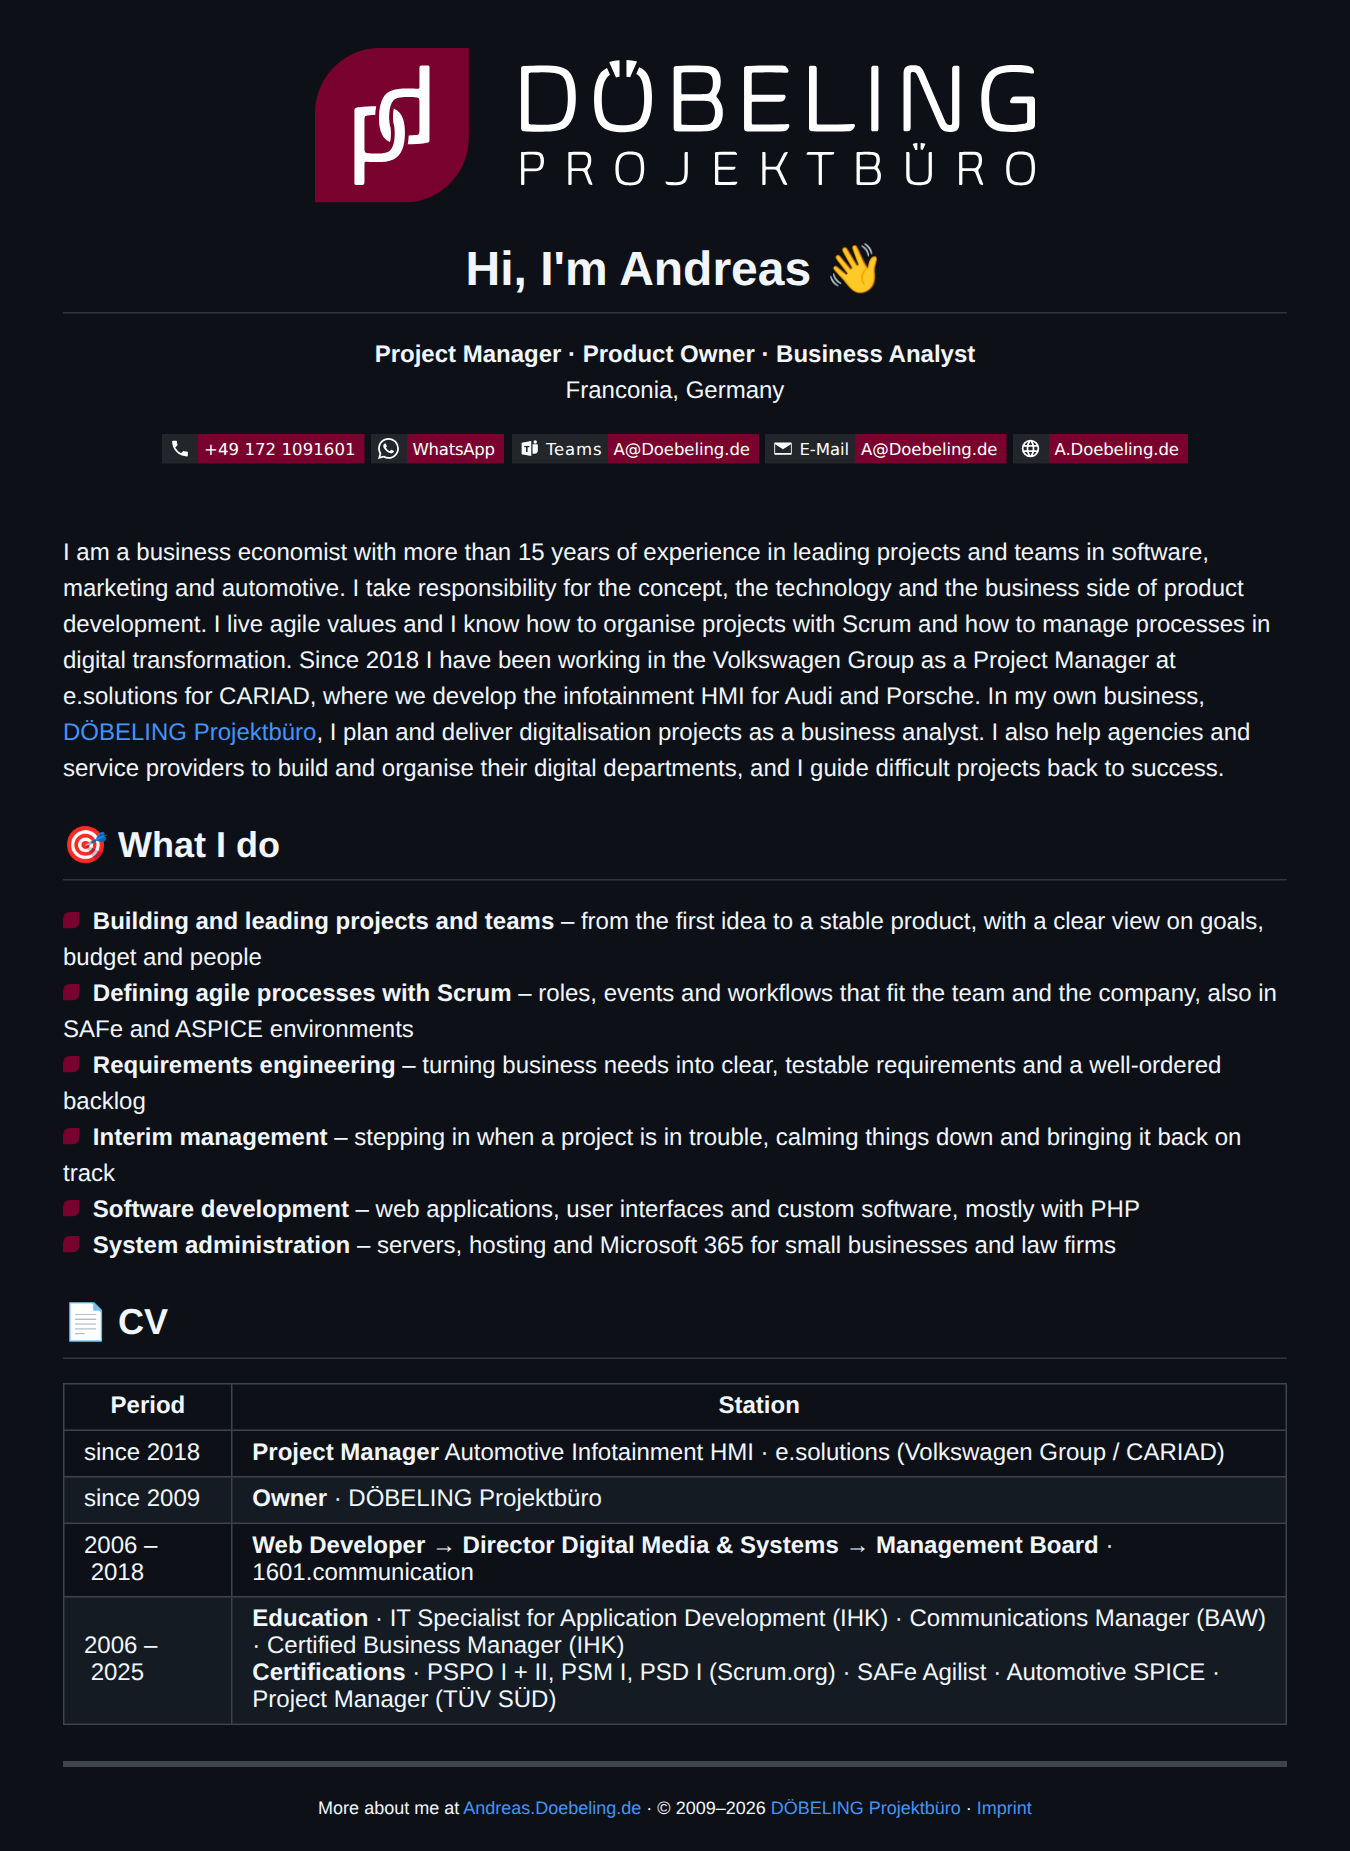
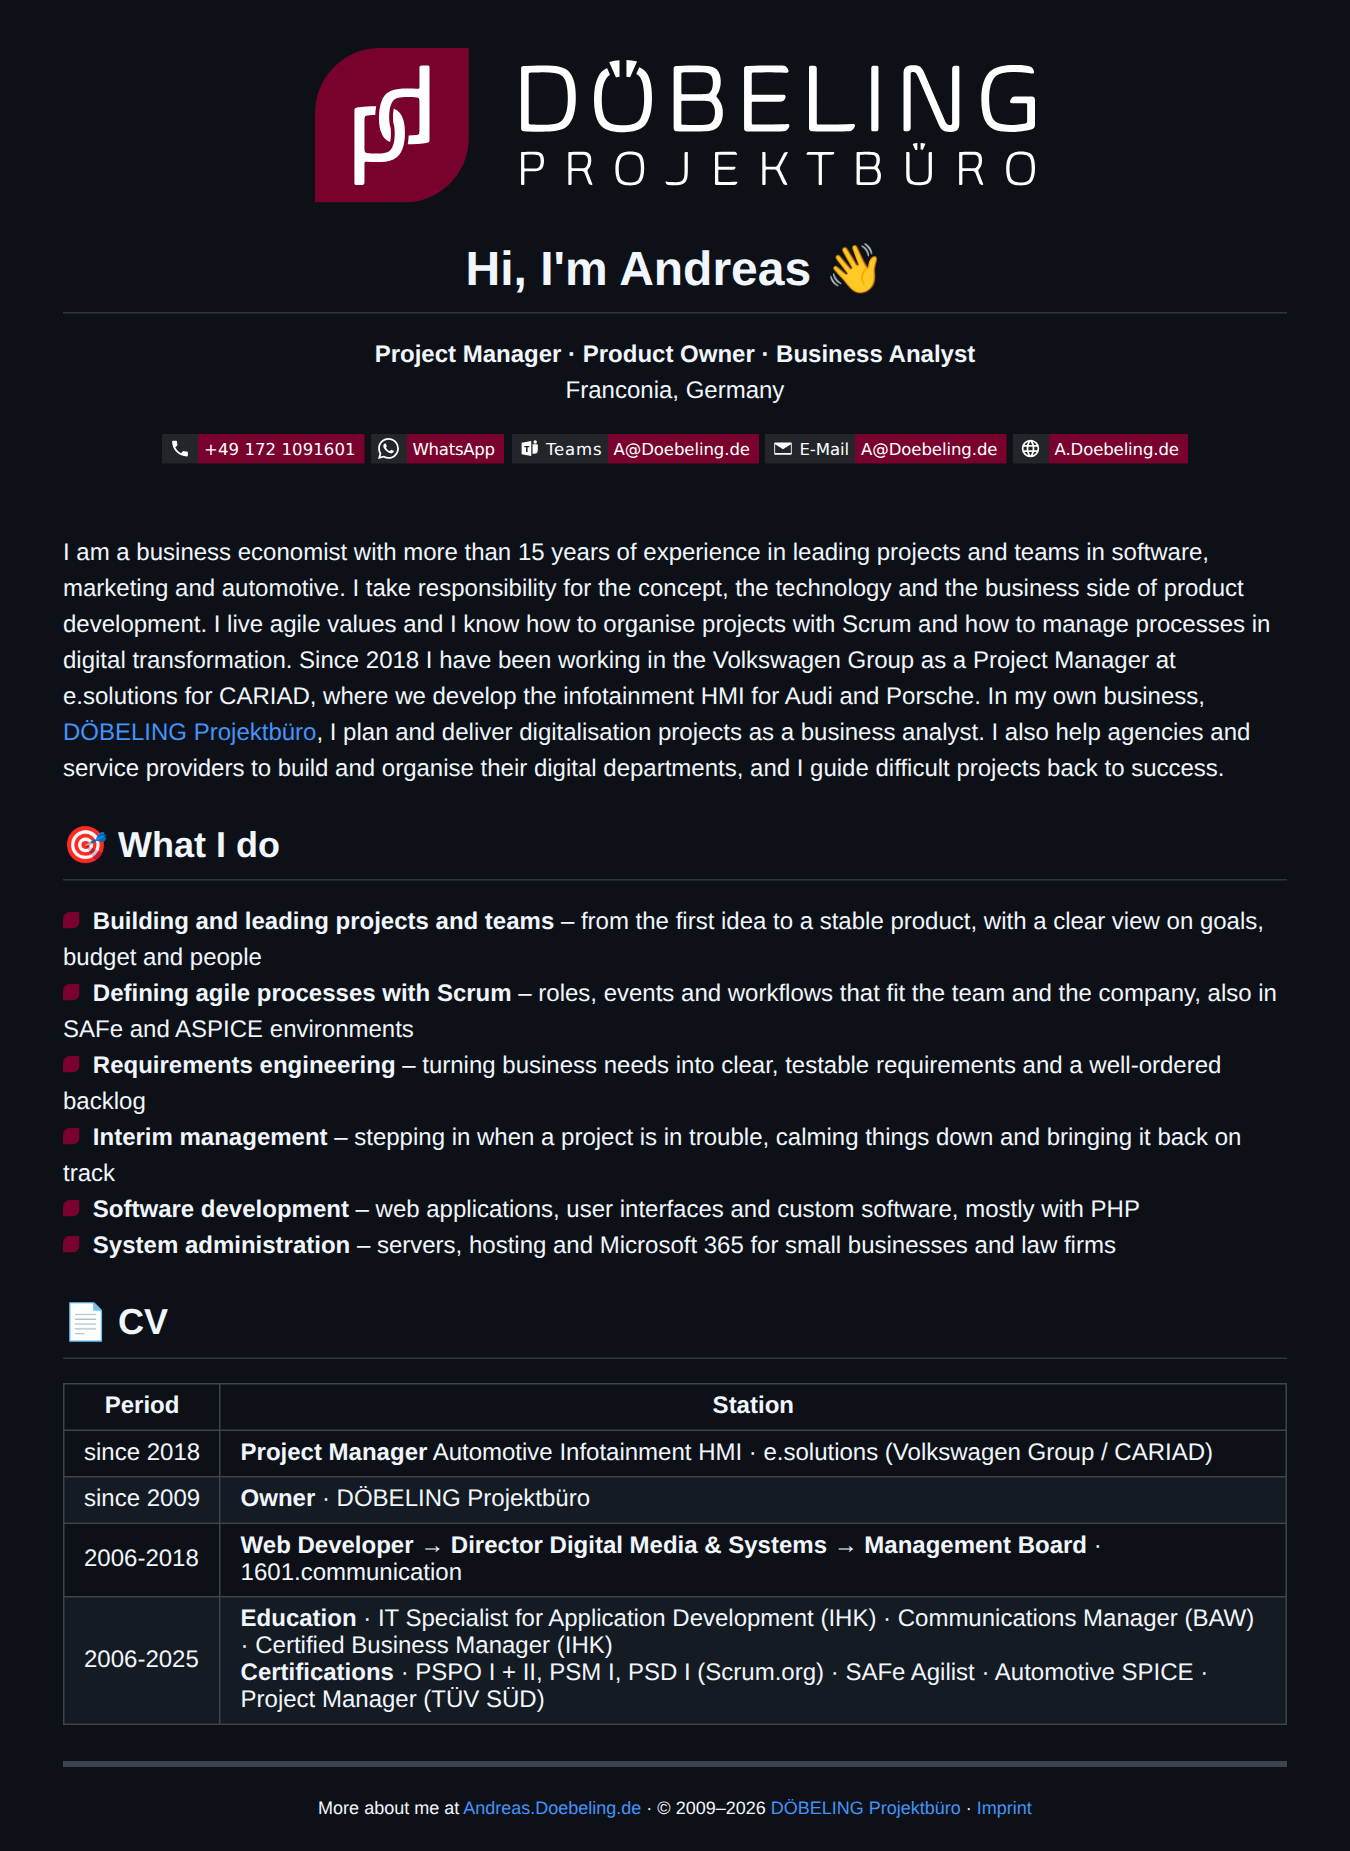
Keep CV periods on one line

Changed region(s): [[0.0622, 0.7391, 0.9333, 0.9238], [0.0622, 0.7391, 0.1556, 0.7699]]

diff --git a/README.md b/README.md
@@ -41,8 +41,8 @@ I am a business economist with more than 15 years of experience in leading proje
 | --- | --- |
 | since&nbsp;2018 | **Project Manager** Automotive Infotainment HMI · e.solutions (Volkswagen Group / CARIAD) |
 | since&nbsp;2009 | **Owner** · DÖBELING Projektbüro |
-| 2006&nbsp;–&nbsp;2018 | **Web Developer → Director Digital Media & Systems → Management Board** · 1601.communication |
-| 2006&nbsp;–&nbsp;2025 | **Education** · IT Specialist for Application Development (IHK) · Communications Manager (BAW) · Certified Business Manager (IHK)<br>**Certifications** · PSPO I + II, PSM I, PSD I (Scrum.org) · SAFe Agilist · Automotive SPICE · Project Manager (TÜV SÜD) |
+| 2006‑2018 | **Web Developer → Director Digital Media & Systems → Management Board** · 1601.communication |
+| 2006‑2025 | **Education** · IT Specialist for Application Development (IHK) · Communications Manager (BAW) · Certified Business Manager (IHK)<br>**Certifications** · PSPO I + II, PSM I, PSD I (Scrum.org) · SAFe Agilist · Automotive SPICE · Project Manager (TÜV SÜD) |
 
 ---
 
